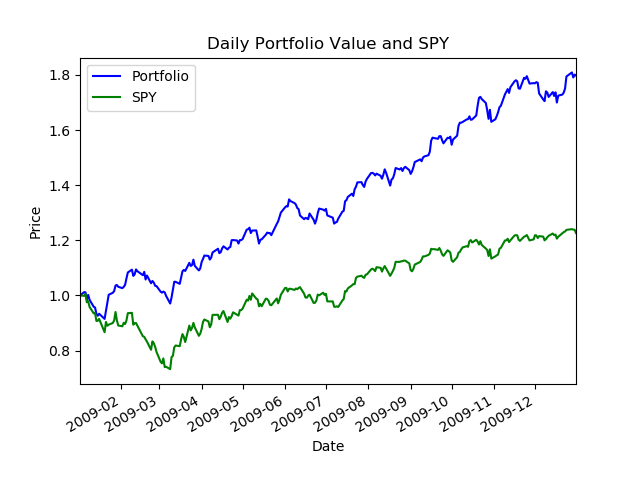
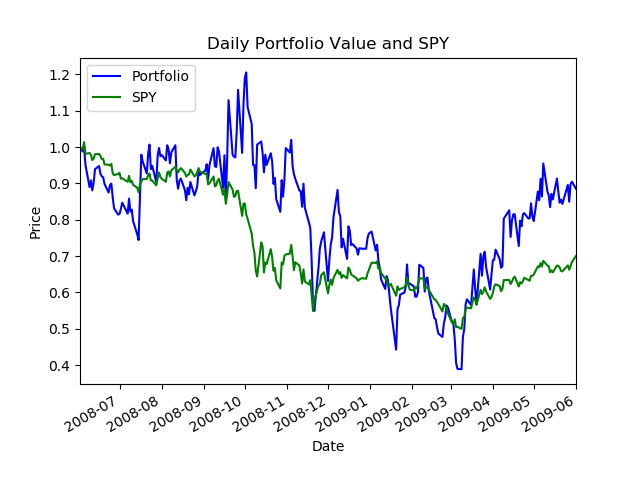
buffet not eatin

diff --git a/ML4T_2019Fall/optimize_something/optimization.py b/ML4T_2019Fall/optimize_something/optimization.py
@@ -83,8 +83,8 @@ def get_allocs(syms, prices):
   			  	 		  		  		    	 		 		   		 		  
 # This is the function that will be tested by the autograder  		   	  			  	 		  		  		    	 		 		   		 		  
 # The student must update this code to properly implement the functionality  		   	  			  	 		  		  		    	 		 		   		 		  
-def optimize_portfolio(sd=dt.datetime(2008,1,1), ed=dt.datetime(2009,1,1), \
-    syms=['GOOG','AAPL','GLD','XOM'], gen_plot=True):  		   	  			  	 		  		  		    	 		 		   		 		  
+def optimize_portfolio(sd=dt.datetime(2008,6,1), ed=dt.datetime(2009,6,1), \
+    syms= ['IBM', 'X', 'GLD', 'JPM'], gen_plot=True):  		   	  			  	 		  		  		    	 		 		   		 		  
   		   	  			  	 		  		  		    	 		 		   		 		  
     # Read in adjusted closing prices for given symbols, date range  		   	  			  	 		  		  		    	 		 		   		 		  
     dates = pd.date_range(sd, ed)  		   	  			  	 		  		  		    	 		 		   		 		  
@@ -131,9 +131,9 @@ def test_code():
     # Note that ALL of these values will be set to different values by  		   	  			  	 		  		  		    	 		 		   		 		  
     # the autograder!  		   	  			  	 		  		  		    	 		 		   		 		  
   		   	  			  	 		  		  		    	 		 		   		 		  
-    start_date = dt.datetime(2009,1,1)  		   	  			  	 		  		  		    	 		 		   		 		  
-    end_date = dt.datetime(2010,1,1)  		   	  			  	 		  		  		    	 		 		   		 		  
-    symbols = ['GOOG', 'AAPL', 'GLD', 'XOM', 'IBM']  		   	  			  	 		  		  		    	 		 		   		 		  
+    start_date = dt.datetime(2008,6,1)  		   	  			  	 		  		  		    	 		 		   		 		  
+    end_date = dt.datetime(2009,6,1)  		   	  			  	 		  		  		    	 		 		   		 		  
+    symbols = ['IBM', 'X', 'GLD', 'JPM'] 		   	  			  	 		  		  		    	 		 		   		 		  
   		   	  			  	 		  		  		    	 		 		   		 		  
     # Assess the portfolio  		   	  			  	 		  		  		    	 		 		   		 		  
     allocations, cr, adr, sddr, sr = optimize_portfolio(sd = start_date, ed = end_date,\
